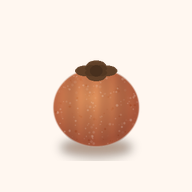
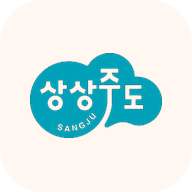
V1.1.3: 시민/공무원 PWA 분리 배포 - 시민(상주정책 시민용)+공무원(/admin/, 상주정책 공무원용)
- 시민 루트: index/style/app/sw/manifest/icon-192,512 상상주도 적용·캐시 sangju-v2
- 공무원 /admin/: manifest·sw·assets(sangsang1, icon-admin-192/512) 신규, 로그인 없이 입장 임시공개

Changed region(s): [[0.1562, 0.25, 0.8438, 0.8438]]

diff --git a/admin/app.js b/admin/app.js
@@ -4,6 +4,7 @@ const $ = (s) => document.querySelector(s);
 
 let ALL = [], CATS = [], SELCATS = new Set(), sortKey = "seq", page = 0;
 const PAGE = 12;
+let IS_GUEST = false; // 임시 공개(로그인 없이 입장) 여부
 
 function debounce(fn, ms) { let t; return (...a) => { clearTimeout(t); t = setTimeout(() => fn(...a), ms); }; }
 function esc(s) { return String(s == null ? "" : s).replace(/[&<>"]/g, (m) => ({ "&": "&amp;", "<": "&lt;", ">": "&gt;", '"': "&quot;" }[m])); }
@@ -19,6 +20,10 @@ $("#loginBtn").onclick = login;
 $("#pw").addEventListener("keydown", (e) => { if (e.key === "Enter") login(); });
 $("#email").addEventListener("keydown", (e) => { if (e.key === "Enter") $("#pw").focus(); });
 
+// 임시 공개: 로그인 없이 입장(게스트). 정식 로그인은 그대로 유지.
+$("#guestBtn").onclick = () => { IS_GUEST = true; showApp(); };
+$("#guestBannerClose").onclick = () => $("#guestBanner").classList.add("hidden");
+
 async function login() {
   const email = $("#email").value.trim(), password = $("#pw").value;
   if (!email || !password) { $("#loginErr").textContent = "이메일과 비밀번호를 입력하세요."; return; }
@@ -31,6 +36,11 @@ async function login() {
 async function showApp() {
   $("#login").classList.add("hidden");
   $("#app").classList.remove("hidden");
+  // 게스트(임시 공개)면 안내 배너 표시 + 로그아웃 버튼 문구를 자연스럽게
+  if (IS_GUEST) {
+    $("#guestBanner").classList.remove("hidden");
+    $("#btnLogout").textContent = "로그인 화면으로";
+  }
   bindUI();
   await loadBenefits();
   subscribeRealtime();
@@ -40,7 +50,11 @@ function bindUI() {
   $("#search").addEventListener("input", debounce(() => { page = 0; render(); }, 300));
   $("#sortSel").addEventListener("change", () => { sortKey = $("#sortSel").value; render(); });
   $("#btnAdd").onclick = () => openEdit(null);
-  $("#btnLogout").onclick = async () => { await sb.auth.signOut(); location.reload(); };
+  $("#btnLogout").onclick = async () => {
+    // 게스트면 세션이 없으므로 그냥 로그인 화면으로 복귀
+    if (!IS_GUEST) { try { await sb.auth.signOut(); } catch (e) {} }
+    location.reload();
+  };
   $("#mClose").onclick = () => $("#modal").classList.add("hidden");
   $("#modal").addEventListener("click", (e) => { if (e.target.id === "modal") $("#modal").classList.add("hidden"); });
   document.addEventListener("keydown", (e) => { if (e.key === "Escape") $("#modal").classList.add("hidden"); });
@@ -125,6 +139,24 @@ const FIELDS = [
   ["담당자 이메일", "manager_email", false], ["지원 대상", "target", true],
   ["사업 내용", "content", true], ["이용 방법", "method", true], ["필요 서류", "documents", true],
 ];
+// 저장/삭제 실패 메시지: RLS(권한) 거부면 임시공개 안내로 친절하게.
+function writeErrMsg(error, verb) {
+  const msg = (error && error.message ? error.message : "").toLowerCase();
+  const code = error && error.code ? String(error.code) : "";
+  const isPerm =
+    code === "42501" || // insufficient_privilege (Postgres)
+    msg.includes("row-level security") ||
+    msg.includes("rls") ||
+    msg.includes("permission") ||
+    msg.includes("policy") ||
+    msg.includes("not authorized") ||
+    msg.includes("violates");
+  if (isPerm) {
+    return "⚠ 저장 권한이 없습니다.\n아직 임시공개 권한 적용 전이거나 로그인이 필요합니다.\n(관리자에게 권한 개방을 요청하거나 로그인 후 다시 시도해 주세요.)";
+  }
+  return `${verb} 실패: ` + (error && error.message ? error.message : "알 수 없는 오류");
+}
+
 function openEdit(r) {
   $("#mTitle").textContent = r ? "✏ 사업 수정" : "➕ 새 사업 추가";
   let html = "";
@@ -145,7 +177,7 @@ function openEdit(r) {
       // 낙관적 잠금: 내가 연 이후 다른 담당자가 먼저 수정했는지 updated_at으로 확인
       const { data, error } = await sb.from("benefits")
         .update(obj).eq("id", r.id).eq("updated_at", r.updated_at).select();
-      if (error) { alert("저장 실패: " + error.message); return; }
+      if (error) { alert(writeErrMsg(error, "저장")); return; }
       if (!data || !data.length) {
         alert("⚠ 다른 담당자가 먼저 이 사업을 수정했습니다.\n최신 내용으로 새로고침하니, 다시 확인 후 수정해 주세요.");
         $("#modal").classList.add("hidden");
@@ -154,7 +186,7 @@ function openEdit(r) {
       }
     } else {
       const { error } = await sb.from("benefits").insert(obj);
-      if (error) { alert("저장 실패: " + error.message); return; }
+      if (error) { alert(writeErrMsg(error, "저장")); return; }
     }
     $("#modal").classList.add("hidden");
     await loadBenefits();
@@ -162,7 +194,7 @@ function openEdit(r) {
   if (r) $("#mDel").onclick = async () => {
     if (!confirm("이 사업을 삭제하시겠습니까?")) return;
     const res = await sb.from("benefits").delete().eq("id", r.id);
-    if (res.error) { alert("삭제 실패: " + res.error.message); return; }
+    if (res.error) { alert(writeErrMsg(res.error, "삭제")); return; }
     $("#modal").classList.add("hidden");
     await loadBenefits();
   };

diff --git a/admin/index.html b/admin/index.html
@@ -3,8 +3,18 @@
 <head>
 <meta charset="utf-8">
 <meta name="viewport" content="width=device-width, initial-scale=1">
-<meta name="theme-color" content="#E66B3A">
-<title>상주시 정책 플랫폼 — 클라우드</title>
+<meta name="theme-color" content="#1B2A4A">
+<title>상주정책(공무원용)</title>
+
+<!-- PWA: 홈 화면에 별도 앱으로 설치 (시민앱과 분리된 정체성) -->
+<link rel="manifest" href="manifest.json">
+<link rel="apple-touch-icon" href="assets/icon-admin-192.png">
+<meta name="mobile-web-app-capable" content="yes">
+<meta name="apple-mobile-web-app-capable" content="yes">
+<meta name="apple-mobile-web-app-status-bar-style" content="black-translucent">
+<meta name="apple-mobile-web-app-title" content="상주정책(공무원용)">
+<meta name="application-name" content="상주정책(공무원용)">
+
 <link rel="stylesheet" href="style.css">
 </head>
 <body>
@@ -12,20 +22,25 @@
 <!-- 로그인 -->
 <div id="login" class="login-screen">
   <div class="login-card">
-    <img src="assets/gotgam.png" class="login-logo" alt="곶감">
+    <img src="assets/sangsang1.png" class="login-logo" alt="상상주도">
     <h1 class="login-title">상주시 정책 플랫폼</h1>
-    <p class="login-sub">공무원 관리자 로그인 (클라우드)</p>
+    <p class="login-sub"><img src="assets/gotgam.png" class="login-gotgam" alt="상주 곶감">공무원 관리자 로그인 (클라우드)</p>
     <input id="email" type="email" class="login-input" placeholder="이메일" autocomplete="username">
     <input id="pw" type="password" class="login-input" placeholder="비밀번호" autocomplete="current-password">
     <button id="loginBtn" class="login-btn">🔐 로그인</button>
     <p id="loginErr" class="login-err"></p>
+    <button id="guestBtn" class="guest-btn" type="button">🔓 로그인 없이 입장<br>(임시 공개 · 추후 로그인 적용 예정)</button>
   </div>
 </div>
 
 <!-- 앱 -->
 <div id="app" class="app hidden">
+  <div id="guestBanner" class="guest-banner hidden">
+    <span class="gb-text">⚠ 임시 공개 모드 — 로그인 없이 접속 중입니다. 정식 운영 시 로그인 적용 예정.</span>
+    <button id="guestBannerClose" class="gb-close" type="button" aria-label="닫기">✕</button>
+  </div>
   <header class="topbar">
-    <img src="assets/gotgam.png" class="brand-logo" alt="곶감">
+    <img src="assets/sangsang1.png" class="brand-logo" alt="상상주도">
     <div class="brand-text">
       <div class="brand-title">상주시 정책 플랫폼</div>
       <div class="brand-sub" id="dbInfo">사업 관리 (실시간)</div>
@@ -49,6 +64,11 @@
     <div id="list" class="cardlist"></div>
     <div id="pager" class="pager-wrap"></div>
   </main>
+
+  <footer class="appfoot">
+    <img src="assets/gotgam.png" class="foot-gotgam" alt="상주 곶감">
+    <span>상주 곶감의 고장 · 상주시 정책 플랫폼</span>
+  </footer>
 </div>
 
 <!-- 편집/상세 모달 -->
@@ -65,5 +85,17 @@
 <script src="https://cdn.jsdelivr.net/npm/@supabase/supabase-js@2"></script>
 <script src="config.js"></script>
 <script src="app.js"></script>
+
+<!-- PWA 서비스워커 등록 (상대경로 → /admin/ 하위에서만 동작, 시민앱과 분리) -->
+<script>
+  if ("serviceWorker" in navigator) {
+    window.addEventListener("load", function () {
+      navigator.serviceWorker
+        .register("sw.js")
+        .then(function (reg) { console.log("[PWA·공무원] 서비스워커 등록:", reg.scope); })
+        .catch(function (e) { console.warn("[PWA·공무원] 서비스워커 등록 실패(무시):", e); });
+    });
+  }
+</script>
 </body>
 </html>

diff --git a/admin/sw.js b/admin/sw.js
@@ -1,0 +1,104 @@
+/* 상주정책(공무원용) — 서비스워커 (PWA 설치 + 오프라인 로딩)
+ * 경로는 모두 상대경로(self.registration.scope 기준 = /sangju-policy-mobile/admin/)로 다뤄
+ * 시민앱 서비스워커와 캐시·범위가 완전히 분리되도록 CACHE 이름을 다르게 둔다.
+ * 캐시 버전을 올리려면 아래 CACHE 값을 바꾸면 됨(예: sangju-admin-v2). */
+const CACHE = "sangju-admin-v1";
+
+// scope(예: https://hcyang572-gif.github.io/sangju-policy-mobile/admin/)를 기준으로
+// 절대 URL을 만들어 둔다. (서브경로에서도 안전)
+const SCOPE = self.registration.scope;
+const u = (p) => new URL(p, SCOPE).toString();
+
+// 미리 캐시할 공무원앱(/admin/) 자체 정적 자원만(상대경로).
+const PRECACHE = [
+  "./",
+  "index.html",
+  "style.css",
+  "app.js",
+  "config.js",
+  "manifest.json",
+  "assets/icon-admin-192.png",
+  "assets/icon-admin-512.png",
+  "assets/sangsang1.png",
+  "assets/gotgam.png",
+];
+
+// 설치: 핵심 자원을 미리 담되, 하나가 실패해도 install 전체가 실패하지 않게 개별 try/catch.
+self.addEventListener("install", (event) => {
+  event.waitUntil(
+    (async () => {
+      const cache = await caches.open(CACHE);
+      await Promise.all(
+        PRECACHE.map(async (p) => {
+          try {
+            await cache.add(new Request(u(p), { cache: "reload" }));
+          } catch (e) {
+            console.warn("[admin-sw] precache 실패(무시):", p, e);
+          }
+        })
+      );
+      await self.skipWaiting();
+    })()
+  );
+});
+
+// 활성화: 이 앱의 현재 캐시(CACHE) 외 '관리자' 옛 캐시만 정리.
+// 시민앱 캐시(sangju-*)는 같은 origin이라도 건드리지 않는다(앱 분리).
+self.addEventListener("activate", (event) => {
+  event.waitUntil(
+    (async () => {
+      const keys = await caches.keys();
+      await Promise.all(
+        keys
+          .filter((k) => k.startsWith("sangju-admin-") && k !== CACHE)
+          .map((k) => caches.delete(k))
+      );
+      await self.clients.claim();
+    })()
+  );
+});
+
+// 메시지: 새 워커 즉시 적용 요청 처리
+self.addEventListener("message", (event) => {
+  if (event.data && event.data.type === "SKIP_WAITING") self.skipWaiting();
+});
+
+// fetch: 크롬 설치조건 충족을 위해 핸들러 등록.
+//  - GET 이외 / 타 출처(Supabase·CDN 등) 요청은 가로채지 않고 통과(네트워크 그대로).
+//  - 이 서비스워커는 자신의 scope(/admin/) 하위만 제어한다(브라우저 기본 동작).
+//  - 동일 출처 정적 자원: cache-first + 받아오면 캐시에 보관.
+self.addEventListener("fetch", (event) => {
+  const req = event.request;
+  if (req.method !== "GET") return;
+
+  let url;
+  try {
+    url = new URL(req.url);
+  } catch (e) {
+    return;
+  }
+
+  // 동일 출처가 아니면(Supabase API·CDN 등) 그대로 네트워크로 통과
+  if (url.origin !== self.location.origin) return;
+
+  // 정적 자원 — cache-first
+  event.respondWith(cacheFirst(req));
+});
+
+// cache-first: 캐시에 있으면 즉시 반환, 없으면 네트워크 후 캐시에 보관
+async function cacheFirst(req) {
+  const cache = await caches.open(CACHE);
+  const cached = await cache.match(req);
+  if (cached) return cached;
+  try {
+    const res = await fetch(req);
+    if (res && res.ok && res.type === "basic") cache.put(req, res.clone());
+    return res;
+  } catch (e) {
+    if (req.mode === "navigate") {
+      const fallback = await cache.match(u("index.html"));
+      if (fallback) return fallback;
+    }
+    throw e;
+  }
+}

diff --git a/admin/style.css b/admin/style.css
@@ -12,9 +12,10 @@ body{font-family:"Malgun Gothic","맑은 고딕",system-ui,sans-serif;background
 /* 로그인 */
 .login-screen{position:fixed;inset:0;display:flex;align-items:center;justify-content:center;background:linear-gradient(160deg,#FFF3EA,#FFE2CE);padding:20px;}
 .login-card{background:#fff;width:100%;max-width:380px;padding:38px 32px;border-radius:24px;box-shadow:0 18px 50px rgba(170,90,45,.22);text-align:center;}
-.login-logo{width:78px;height:78px;object-fit:contain;}
-.login-title{font-size:22px;color:var(--gotgam);font-weight:800;margin-top:4px;}
-.login-sub{font-size:12.5px;color:var(--sub);font-weight:700;margin:4px 0 20px;}
+.login-logo{height:62px;width:auto;max-width:78%;object-fit:contain;display:block;margin:0 auto;}
+.login-title{font-size:22px;color:var(--gotgam);font-weight:800;margin-top:10px;}
+.login-sub{font-size:12.5px;color:var(--sub);font-weight:700;margin:4px 0 20px;display:inline-flex;align-items:center;gap:5px;}
+.login-gotgam{width:16px;height:16px;object-fit:contain;}
 .login-input{width:100%;height:46px;border:2px solid var(--gotgam-l);border-radius:12px;text-align:center;font-size:15px;outline:none;margin-bottom:10px;}
 .login-input:focus{border-color:var(--gotgam);}
 .login-btn{width:100%;height:48px;margin-top:8px;border:none;border-radius:12px;background:var(--gotgam);color:#fff;font-size:16px;font-weight:800;cursor:pointer;}
@@ -24,7 +25,7 @@ body{font-family:"Malgun Gothic","맑은 고딕",system-ui,sans-serif;background
 /* 앱 */
 .app{min-height:100vh;display:flex;flex-direction:column;}
 .topbar{background:#fff;display:flex;align-items:center;gap:12px;padding:12px 20px;}
-.brand-logo{width:40px;height:40px;object-fit:contain;filter:drop-shadow(0 1px 2px rgba(0,0,0,.12));}
+.brand-logo{height:34px;width:auto;object-fit:contain;filter:drop-shadow(0 1px 2px rgba(0,0,0,.12));}
 .brand-title{font-size:20px;font-weight:800;color:var(--gotgam);line-height:1.1;}
 .brand-sub{font-size:12px;font-weight:700;color:var(--sub);margin-top:2px;}
 .top-actions{margin-left:auto;display:flex;align-items:center;gap:8px;}
@@ -83,6 +84,19 @@ body{font-family:"Malgun Gothic","맑은 고딕",system-ui,sans-serif;background
 .modal-actions{display:flex;gap:10px;margin-top:8px;}
 .modal-actions .top-btn{flex:1;height:46px;font-size:15px;}
 .modal-actions .top-btn.danger{flex:0 0 100px;}
+
+/* 로그인 없이 입장(임시 공개) 버튼 */
+.guest-btn{width:100%;height:44px;margin-top:10px;border:2px dashed var(--gotgam-l);border-radius:12px;background:#fff;color:var(--gotgam-d);font-size:13.5px;font-weight:800;cursor:pointer;line-height:1.25;}
+.guest-btn:hover{background:var(--gotgam-ll);border-color:var(--gotgam);}
+
+/* 임시 공개 안내 배너 */
+.guest-banner{display:flex;align-items:center;gap:10px;margin:0;padding:10px 16px;background:#FFF3CD;border-bottom:1px solid #F0DDA0;color:#7A5B00;font-size:13px;font-weight:700;}
+.guest-banner .gb-text{flex:1;}
+.guest-banner .gb-close{flex:0 0 auto;border:none;background:transparent;color:#7A5B00;font-size:16px;font-weight:800;cursor:pointer;padding:2px 6px;}
+
+/* 푸터(상주 곶감 은은한 포인트) */
+.appfoot{margin-top:auto;display:flex;align-items:center;justify-content:center;gap:8px;padding:16px;color:var(--sub);font-size:12px;font-weight:700;border-top:1px solid var(--line);}
+.foot-gotgam{width:20px;height:20px;object-fit:contain;opacity:.85;}
 
 /* 반응형(핸드폰) */
 @media (max-width:600px){

diff --git a/index.html b/index.html
@@ -27,7 +27,7 @@
 <body>
   <header class="topbar">
     <button id="backBtn" class="back-btn" hidden aria-label="뒤로">‹</button>
-    <img src="assets/gotgam.png" class="topbar-logo" alt="곶감" />
+    <span class="topbar-logo-chip"><img src="assets/sangsang1.png" class="topbar-logo" alt="상상주도" /></span>
     <div class="topbar-titles">
       <h1 id="topTitle">상주시 정책 플랫폼</h1>
       <span id="topSub" class="topsub">수요자 기반 정책 플랫폼</span>
@@ -143,7 +143,7 @@
   <button id="fabBack" class="fab-back" hidden aria-label="뒤로가기">‹ 뒤로</button>
 
   <footer class="foot">
-    <div class="foot-team"><button id="teamBtn" class="gear-btn" type="button"><span class="gear">⚙ 톱니바퀴</span></button> 제6기 미래상주 희망연구팀</div>
+    <div class="foot-team"><img src="assets/gotgam.png" class="foot-gotgam" alt="상주 곶감" /><button id="teamBtn" class="gear-btn" type="button"><span class="gear">⚙ 톱니바퀴</span></button> 제6기 미래상주 희망연구팀</div>
     <div class="foot-install">📲 <button id="installLink" class="foot-link-btn" type="button">홈 화면에 앱처럼 추가하기</button></div>
     <div class="foot-install">🌐 <button id="openBrowserLink" class="foot-link-btn" type="button">다른 브라우저(크롬·사파리)로 열기</button></div>
     <div class="foot-url">🔗 <span class="foot-url-text">hcyang572-gif.github.io/sangju-policy-mobile</span></div>

diff --git a/style.css b/style.css
@@ -52,7 +52,9 @@ body { max-width: 560px; margin: 0 auto; padding-bottom: 60px; }
   cursor: pointer;
 }
 /* 곶감 아이콘(투명 배경, 그림자로 주황 상단바에서 또렷하게) + 상상주 CI 로고(흰 배경 투명화됨) */
-.topbar-logo { width: 40px; height: 40px; object-fit: contain; flex-shrink: 0; filter: drop-shadow(0 1px 3px rgba(0,0,0,.28)); }
+/* 상상주도 CI 로고를 흰 칩 위에 올려 주황 상단바에서 또렷하게(가로로 넓은 로고 비율 유지) */
+.topbar-logo-chip { display: inline-flex; align-items: center; background: #fff; border-radius: 10px; padding: 4px 8px; flex-shrink: 0; box-shadow: 0 1px 3px rgba(0,0,0,.18); }
+.topbar-logo { height: 26px; width: auto; object-fit: contain; display: block; }
 .topbar-ci { height: 34px; object-fit: contain; margin-left: auto; flex-shrink: 0; }
 
 main { padding: 16px; }
@@ -219,6 +221,8 @@ main { padding: 16px; }
 
 .foot { text-align: center; font-size: 12px; color: var(--muted); padding: 20px 16px 78px; line-height: 1.9; }
 .foot-team { font-size: 13px; font-weight: 700; color: var(--text); }
+/* 상주 곶감 정체성을 푸터에 은은한 포인트로 */
+.foot-gotgam { width: 18px; height: 18px; object-fit: contain; vertical-align: -3px; margin-right: 4px; opacity: .9; }
 .gear-btn { background: none; border: none; padding: 0; cursor: pointer; font: inherit; }
 .foot-team .gear { color: var(--primary); font-weight: 700; text-decoration: underline; }
 

diff --git a/sw.js b/sw.js
@@ -2,7 +2,7 @@
  * 경로는 모두 상대경로(self.registration.scope 기준)로 다뤄
  * GitHub Pages 하위경로(/sangju-policy-mobile/)에서도 깨지지 않게 함.
  * 캐시 버전을 올리려면 아래 CACHE 값을 바꾸면 됨(예: sangju-v2). */
-const CACHE = "sangju-v1";
+const CACHE = "sangju-v2";
 
 // scope(예: https://hcyang572-gif.github.io/sangju-policy-mobile/)를 기준으로
 // 절대 URL을 만들어 둔다. (서브경로/루트 모두 안전)
@@ -20,6 +20,7 @@ const PRECACHE = [
   "icon-192.png",
   "icon-512.png",
   "qr.png",
+  "assets/sangsang1.png",
   "assets/gotgam.png",
 ];
 
@@ -82,6 +83,10 @@ self.addEventListener("fetch", (event) => {
 
   // 동일 출처가 아니면(외부 API·CDN 등) 그대로 네트워크로 통과
   if (url.origin !== self.location.origin) return;
+
+  // 공무원앱(/admin/) 경로는 시민 서비스워커가 가로채지 않고 통과.
+  // → 공무원앱은 자체 서비스워커(sangju-admin-*)가 제어한다(두 앱 완전 분리).
+  if (url.pathname.includes("/admin/")) return;
 
   // 데이터는 항상 최신을 우선 — network-first
   if (url.pathname.endsWith("/data.json") || url.pathname.endsWith("data.json")) {
